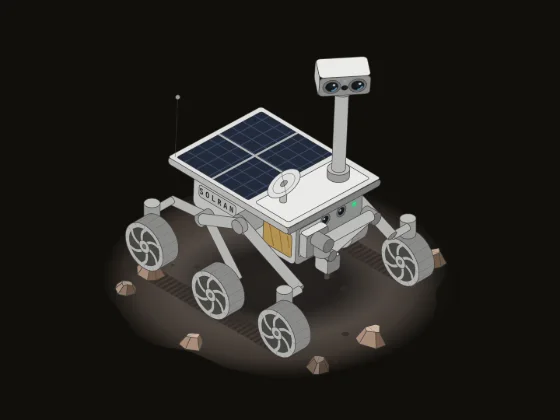
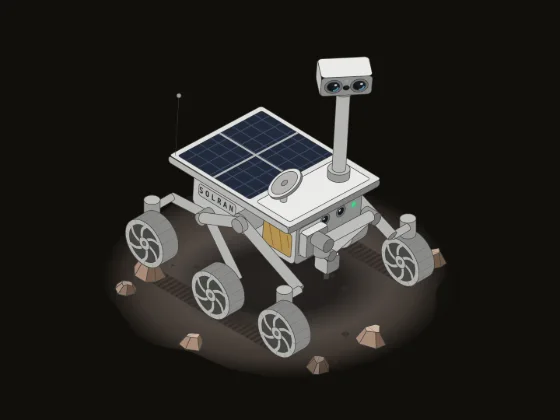
Give the Mars rover's dish a bowl and stand a wheel on its rock
The dish has a rim, a bowl and a feed instead of a flat disc with a
strut across it. The rock under the near rear wheel is taller, so the
rover's rest pose, and with it the thumbnail, shows the bogie tilted
over it. Thumbnails retaken.

diff --git a/packages/miniatures/src/figures/mars-rover.ts b/packages/miniatures/src/figures/mars-rover.ts
@@ -111,7 +111,7 @@ const HEAD=el('g',{}),headBox=fbox(HEAD,'',[9,16.6,8],1.4),headFront=headBox.F[0
 for(const u of[4.1,12.5]){circle(headFront,u,4.1,2.9,'face recess');circle(headFront,u,4.1,2.1,'lensg');el('path',{d:`M${f2(u-1.5)},${f2(4.7)}A1.6,1.6 0 0 0 ${f2(u-.2)},${f2(5.8)}`,class:'coat'},headFront);circle(headFront,u-.7,3.4,.45,'spec');}
 circle(headFront,8.3,4.8,1.1,'lensg');const headLamp=lamp(headFront,8.3,1.9,.6);
 btube([12,11,40.5],[12,11,45.6],1.1,'metal');
-{const nd=unit([-.35,.45,.82]),[U,V]=axes(nd),dg=bface([12,11,47.4],U,V);circle(dg,0,0,6.2,'face top metal');circle(dg,0,0,4.2,'detail');circle(dg,0,0,1.3,'face base');el('path',{d:'M-5.9,0L0,0M5.9,0L0,0',class:'detail'},dg);}
+{const nd=unit([-.35,.45,.82]),[U,V]=axes(nd);circle(bface(sub([12,11,47.4],mul(nd,.9)),U,V),0,0,6.2,'face side metal');const dg=bface([12,11,47.4],U,V);circle(dg,0,0,6.2,'face top metal');circle(dg,0,0,4.9,'face metal');circle(dg,0,0,1.2,'face base');}
 bwire([-28.6,19.4,40.5],[-28.6,19.4,64],'detail');const whipTip=circle(BODY,0,0,.9,'face base');
 // The arm: shoulder turret, pitch joint, upper arm, elbow, forearm, wrist and the turret with its coring drill.
 root=ARM;
@@ -124,7 +124,7 @@ const puffs=[...Array(6)].map(()=>el('circle',{r:2,class:'puff'},fx)),flash=el('
 const hBtn=button(el('g',{}),{'aria-label':'Take a panorama (P)'}),hHit=el('circle',{r:13,class:'hit'},hBtn),hRing=el('circle',{r:14,class:'focus-ring'},hBtn);
 const aq=P(28,0,24),aBtn=button(el('g',{}),{'aria-label':'Sample the nearest rock (Space)'});el('circle',{cx:f2(aq[0]),cy:f2(aq[1]),r:13,class:'hit'},aBtn);el('circle',{cx:f2(aq[0]),cy:f2(aq[1]),r:14,class:'focus-ring'},aBtn);
 // Rocks: low faceted stones, made once around their own center and moved by translation; a cored one shows its hole.
-const ROCKS=[[45,4,5.4,4.4],[44,27,4.2,3.4],[-31,28,5,4.4],[-44,-22,5,4],[6,46,4.6,3.4],[-30,40,3.8,2.8],[28,-40,5.4,4.2],[-12,-46,4.2,3.2]].map(([x,y,r,h])=>{
+const ROCKS=[[45,4,5.4,4.4],[44,27,4.2,3.4],[-31,28.6,5.6,5.8],[-44,-22,5,4],[6,46,4.6,3.4],[-30,40,3.8,2.8],[28,-40,5.4,4.2],[-12,-46,4.2,3.2]].map(([x,y,r,h])=>{
 const g=el('g',{},scene),n=7,a0=rnd()*PI,base=[],tp=[];for(let i=0;i<n;i++){const a=a0+i/n*2*PI+(rnd()-.5)*.5,k=r*(.8+rnd()*.3);base.push([k*cos(a),k*sin(a)*.9,0]);const kt=k*(.38+rnd()*.26);tp.push([kt*cos(a)+r*.1,kt*sin(a)*.9-r*.08,h*(.8+rnd()*.32)]);}
 const faces=[];for(let i=0;i<n;i++){const b0=base[i],b1=base[(i+1)%n],t1=tp[(i+1)%n],t0=tp[i],nn=unit(cross(sub(b1,b0),sub(t0,b0)));if(dot(nn,VW)>0)faces.push({d:pth([b0,b1,t1,t0],true),z:dot(add(b0,b1),VW),c:shade(nn)});}
 faces.sort((p,q)=>p.z-q.z).forEach(f=>el('path',{d:f.d,class:'face rock '+f.c},g));el('path',{d:pth(tp,true),class:'face top rock'},g);el('path',{d:pth([tp[0],tp[3]]),class:'detail',opacity:.5},g);
